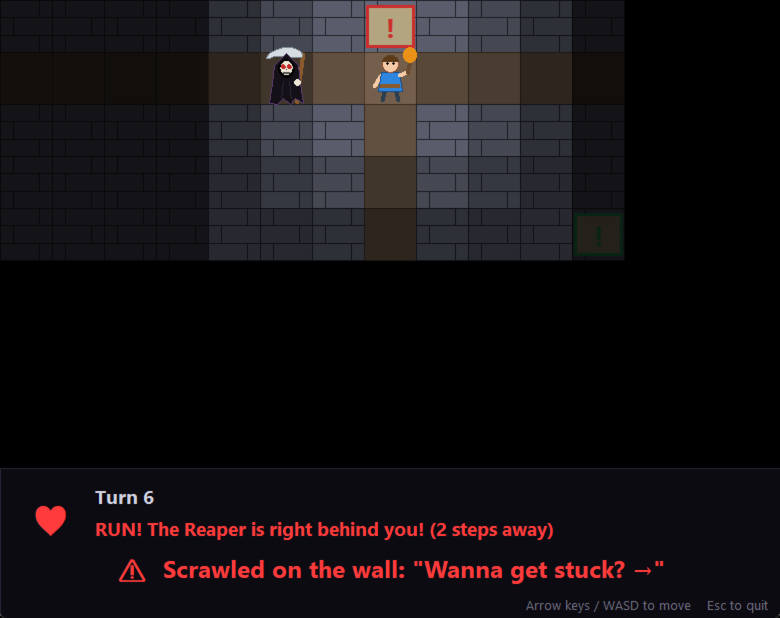
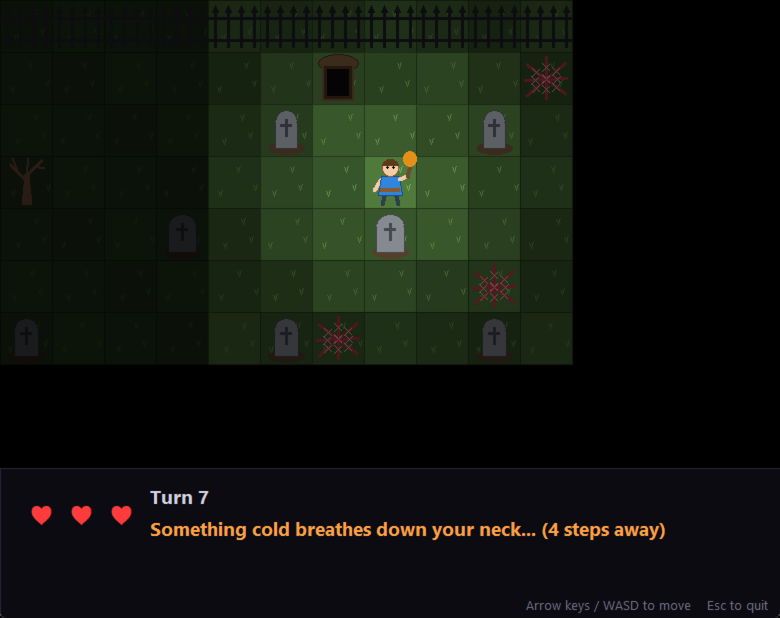
Update README and screenshots for the graveyard; tidy the title story (R6, R7)
The title-screen story got a new line about open graves and thorns,
which ran into the drawn Reaper and player in a screenshot; it is now
split over shorter lines. The README describes the graveyard, the
hazards and the signposts, and both screenshots are retaken (the old
ones showed the round-1 maze). The spec now records that long sign
texts shrink to fit, which the previous commit added.

Changed region(s): [[0.2462, 0.0, 0.8, 0.6149], [0.0308, 0.7994, 0.8615, 0.9531], [0.0, 0.5227, 0.0615, 0.5841]]

diff --git a/escape_game/gui.py b/escape_game/gui.py
@@ -482,7 +482,7 @@ class GameWindow:
                        font=(TITLE_FONT, 44), tags=("overlay", "title"))
         cv.create_text(mid, 250, text="You wake among the graves at midnight.\n"
                                       "Something breathes behind you.\n\n"
-                                      "Read the signposts. Mind the open graves and thorns.\n"
+                                      "Read the signposts.\nMind the open graves and thorns.\n"
                                       "Find the EXIT gate. Don't look back.",
                        fill="#e0e0ea", font=(FONT, 15), justify="center", tags="overlay")
         cv.create_text(mid, self.map_height + 70, text="Press any key to begin", fill="#ffe066",

diff --git a/README.md b/README.md
@@ -2,16 +2,17 @@
 
 A short, tense escape game you start from your terminal.
 
-You wake up in a dark maze holding a torch, and the Grim Reaper is four steps behind you. Every move you make, it makes one too. Find the exit door before its hand closes on your shoulder.
+You wake up at midnight in a fenced graveyard holding a torch, and the Grim Reaper is four steps behind you. Every move you make, it makes one too. Find the exit gate before its hand closes on your shoulder.
 
 ![Title screen](docs/title-screen.png)
 
-- **The maze is dark.** Your torch lights only the few tiles around you. Everything else is black.
-- **Read the walls.** At every fork a sign glows on the wall. Red signs warn you away from dead ends (*"Wanna get stuck?"*). Green signs point toward freedom. One wrong turn into a dead end and the Reaper has you.
+- **The graveyard is dark.** Your torch lights only the few tiles around you. Everything else is black.
+- **Graves block, hazards hurt.** Gravestones, iron fences and dead trees stand in your way. **Open graves** and **thorn bushes** cost you a life if you step on them, and the Reaper glides straight over them.
+- **Read the signposts.** Red signposts warn you away from fenced plots that are dead ends (*"Wanna get stuck?"*). Green signposts point toward the gate. Walk to the back of a plot and the Reaper has you.
 - **Feel it coming.** A heartbeat sounds every turn and gets faster and higher as the Reaper closes in. The heart on screen pulses faster, and the screen flashes red when it's right behind you.
-- **Three lives.** Three red hearts show your lives. When the Reaper catches you, a heart turns grey and empty, and you press **R** to start again from the beginning of the maze. Lose all three and it's **GAME OVER**.
+- **Three lives.** Three red hearts show your lives. When the Reaper catches you or a hazard hurts you, a heart turns grey and empty, and you press **R** to start again from the graveyard's entrance. Lose all three and it's **GAME OVER**.
 
-![The Reaper closing in at the first fork](docs/chase.png)
+![The graveyard at night: graves, an open grave and thorns](docs/chase.png)
 
 ## Requirements
 
@@ -30,14 +31,14 @@ py -m escape_game
 | R | resume after you lose a life (you and the Reaper go back to the start); play again after GAME OVER |
 | Esc | quit |
 
-Bumping into a wall doesn't cost you a turn.
+Bumping into a gravestone, fence or tree doesn't cost you a turn.
 
 Options:
 
 | Option | Effect |
 |---|---|
 | `--mute` | play without sound |
-| `--text` | play inside the terminal instead of a window (type `w`/`a`/`s`/`d` + Enter, `r` + Enter to resume after a catch, `q` to quit) |
+| `--text` | play inside the terminal instead of a window (type `w`/`a`/`s`/`d` + Enter, `r` + Enter to resume after losing a life, `q` to quit) |
 | `--no-color` | with `--text`: plain text for terminals without colour support |
 
 ## Run the tests
@@ -47,18 +48,18 @@ py -m pip install pytest   # once
 py -m pytest
 ```
 
-Every test is named after the requirement it checks (`test_R1_...` to `test_R5_...`). The window tests open hidden tkinter windows and never play sound. See `problem.md` for the requirements and `spec.md` for how the game meets them.
+Every test is named after the requirement it checks (`test_R1_...` to `test_R7_...`). The window tests open hidden tkinter windows and never play sound. See `problem.md` for the requirements and `spec.md` for how the game meets them.
 
 ## Project layout
 
 ```
 escape_game/
   __main__.py   command-line entry point (window by default, --text for terminal)
-  maze.py       the fixed maze, wall signs, shortest-path search
-  game.py       turn order, reaper chase, win/lose rules
+  maze.py       the fixed graveyard: obstacles, hazards, signposts, shortest-path search
+  game.py       turn order, reaper chase, hazards, lives, win/lose rules
   gui.py        the game window: drawn figures, torch light, signs, HUD, screens
   render.py     the terminal (--text) version's drawing
   sound.py      heartbeat and win/lose tones
 tests/          pytest tests, one or more per requirement
-docs/           screenshots
+docs/           screenshots and decision records (docs/decisions/)
 ```

diff --git a/spec.md b/spec.md
@@ -122,7 +122,7 @@ The player wakes at midnight in a fenced graveyard, carrying a torch, and the Gr
 
 *Changed in round 3:* the hurdles are now the graveyard of R6 and R7 instead of maze corridors. Open ground has no corridor "forks", so the signs now mark the entrances of the fenced dead-end plots and the gates that lead on.
 
-* **Signs** are wooden **signposts** standing next to the decision points *(default)*. In the window each is drawn as a post with a parchment plaque, a glowing red or green border and `!`. A sign's message appears when the player stands on a walkable tile orthogonally next to it, shown in large text in the HUD as *Painted on a signpost: "…"*.
+* **Signs** are wooden **signposts** standing next to the decision points *(default)*. In the window each is drawn as a post with a parchment plaque, a glowing red or green border and `!`. A sign's message appears when the player stands on a walkable tile orthogonally next to it, shown in large text in the HUD as *Painted on a signpost: "…"*. A text too long for the window is drawn in a smaller font (down to 10 pt) until it fits *(default)*.
 * There are two kinds of sign, and every sign is honest *(default)*:
   * **Warning (red, ⚠):** stands at the entrance of a fenced dead-end plot and points into it, e.g. *"Wanna get stuck? →"* (the example in problem.md) at the first plot.
   * **Guide (green, ✔):** points toward the exit, e.g. *"↓ The gate lies this way. Hurry."*
